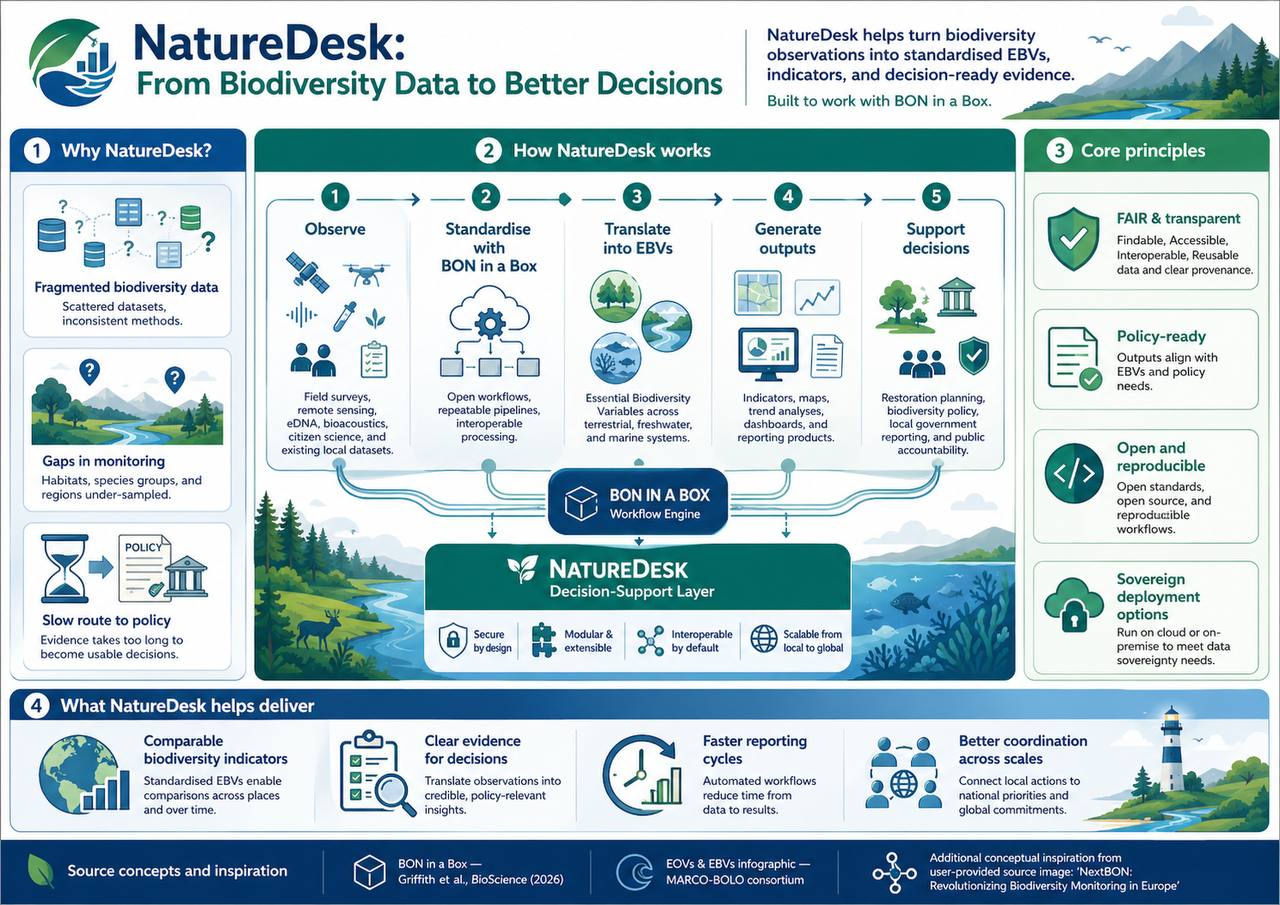
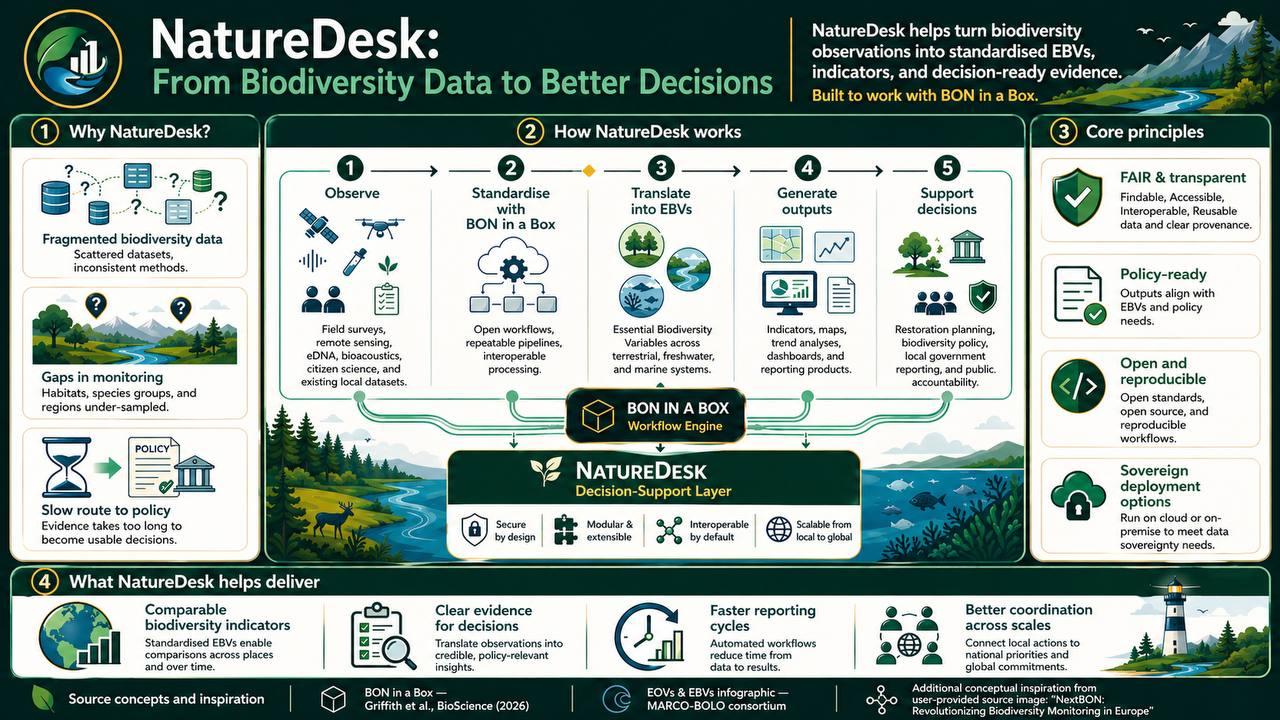
Update NatureDesk infographic

diff --git a/_pages/about.md b/_pages/about.md
@@ -39,7 +39,7 @@ Niet nóg een algemene chatbot, maar een werkwijze voor dossiers waarin herkomst
 
 ![NatureDesk infographic]({{ '/assets/img/ebv-infographic-updated.jpg' | relative_url }})
 
-*Referentie-infographic: ontwikkeld door **MARCO-BOLO**, in samenwerking met **GOOS, GEO BON & MBON**. Bron: [EOVs/EBVs Infographics](https://marcobolo-project.eu/eovs-ebvs-infographics/).*
+*NatureDesk house-style infographic, gebaseerd op de **MARCO-BOLO** EOVs/EBVs infographic en ontwikkeld in relatie tot **GOOS, GEO BON & MBON**. Bronconcept: [EOVs/EBVs Infographics](https://marcobolo-project.eu/eovs-ebvs-infographics/).*
 
 ### Waarom NatureDesk
 

diff --git a/_pages/approach.md b/_pages/approach.md
@@ -11,7 +11,7 @@ nav_order: 1
 
 ![NatureDesk infographic]({{ '/assets/img/ebv-infographic-updated.jpg' | relative_url }})
 
-*Referentie-infographic: ontwikkeld door **MARCO-BOLO**, in samenwerking met **GOOS, GEO BON & MBON**. Bron: [EOVs/EBVs Infographics](https://marcobolo-project.eu/eovs-ebvs-infographics/).*
+*NatureDesk house-style infographic, gebaseerd op de **MARCO-BOLO** EOVs/EBVs infographic en ontwikkeld in relatie tot **GOOS, GEO BON & MBON**. Bronconcept: [EOVs/EBVs Infographics](https://marcobolo-project.eu/eovs-ebvs-infographics/).*
 
 NatureDesk vertrekt vanuit een eenvoudige observatie: goede besluitvorming over natuur vraagt niet alleen om data, maar om een **controleerbare keten van data naar duiding en van duiding naar besluitvorming**.
 